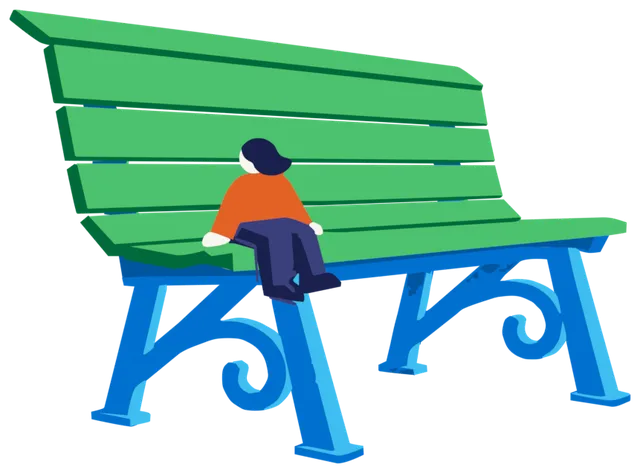
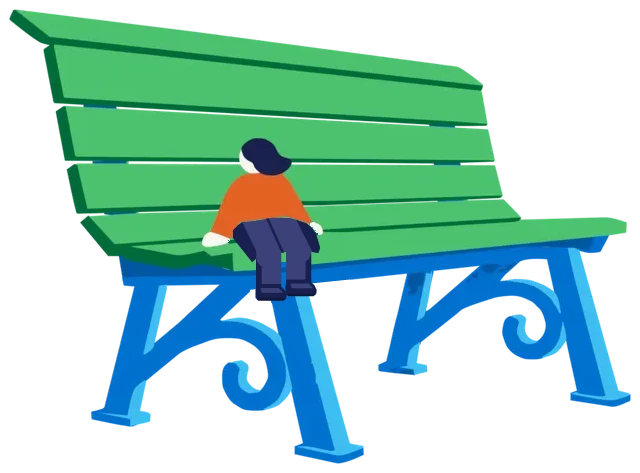
Panchina: gambe ridisegnate, due gambe pulite che dondolano senza doppioni
Claude-Session: https://claude.ai/code/session_01514XnEGZsjyPA5MKydjykv

Changed region(s): [[0.3438, 0.444, 0.5312, 0.6512]]

diff --git a/index.html b/index.html
@@ -369,7 +369,7 @@
             <p class="dintorni__azioni" data-sale><a class="bottone" href="guida-dintorni.pdf" target="_blank" rel="noreferrer">Scarica la guida dei dintorni</a></p>
           </div>
           <div class="passi__scena" aria-hidden="true">
-          <div class="passi__omino passi__omino--panchina"><picture><source srcset="img/anima-panchina-fermo.webp" media="(prefers-reduced-motion: reduce)"><img src="img/anima-panchina.webp" alt="" width="640" height="473" loading="lazy" decoding="async"></picture></div>
+          <div class="passi__omino passi__omino--panchina"><picture><source srcset="img/anima-panchina-fermo.webp?v=2026112409" media="(prefers-reduced-motion: reduce)"><img src="img/anima-panchina.webp?v=2026112409" alt="" width="640" height="473" loading="lazy" decoding="async"></picture></div>
           <div class="passi__omino passi__omino--cammina"><picture><source srcset="img/anima-cammina-fermo.webp" media="(prefers-reduced-motion: reduce)"><img src="img/anima-cammina.webp" alt="" width="385" height="640" loading="lazy" decoding="async"></picture></div>
           <div class="passi__omino passi__omino--canoa"><picture><source srcset="img/anima-canoa-fermo.webp" media="(prefers-reduced-motion: reduce)"><img src="img/anima-canoa.webp" alt="" width="640" height="272" loading="lazy" decoding="async"></picture></div>
           <div class="passi__omino passi__omino--bici"><picture><source srcset="img/anima-bici-fermo.webp" media="(prefers-reduced-motion: reduce)"><img src="img/anima-bici.webp" alt="" width="608" height="640" loading="lazy" decoding="async"></picture></div>

diff --git a/sorgenti/panchina/gambe.py b/sorgenti/panchina/gambe.py
@@ -1,0 +1,163 @@
+# Ridisegna le gambe della ragazza sulla panchina gigante: ricostruisce la panchina
+# dietro le gambe e disegna due gambe pulite che dondolano alternate.
+# uso: python3 gambe.py originale.webp uscita.webp uscita-fermo.webp
+import sys, math
+import numpy as np
+from PIL import Image, ImageDraw
+from scipy import ndimage
+
+SRC, OUT, FERMO = sys.argv[1:4]
+Z = 4                      # supercampionamento
+BX0, BY0, BX1, BY1 = 200, 212, 380, 330   # zona ricostruita
+
+im = Image.open(SRC)
+frames = []
+for i in range(im.n_frames):
+    im.seek(i); frames.append(np.array(im.convert('RGBA')))
+N = len(frames)
+
+# colori presi dall'originale
+def med(lbl_fn):
+    a = frames[0][..., :3].reshape(-1, 3).astype(int)
+    m = lbl_fn(a)
+    return tuple(int(v) for v in np.median(a[m], 0))
+near = lambda c, t=30: (lambda a: (((a - np.array(c)) ** 2).sum(1) < t * t))
+VERDE = med(near((74, 194, 108)))
+VERDE_SC = med(near((0, 106, 52)))
+BLU = med(near((0, 112, 204), 18))
+BLU_SC = med(near((0, 80, 156), 18))
+AZZ = med(near((58, 186, 238)))
+PANT = med(near((58, 64, 124), 20))
+PANT_SC = med(near((26, 34, 78), 16))
+SCARPA_SUOLA = tuple(max(0, int(v * .7)) for v in PANT_SC)
+ARANCIO = (226, 98, 36); PELLE = (240, 240, 225)
+
+# maschera: tutto ciò che è stato pantalone in qualunque fotogramma
+C = np.array([(58, 64, 124), (26, 34, 78)])
+U = np.zeros(frames[0].shape[:2], bool)
+for f in frames:
+    d = ((f[..., None, :3].astype(int) - C[None, None]) ** 2).sum(-1).min(-1)
+    U |= (d < 40 ** 2) & (f[..., 3] > 128)
+U[:212] = False; U[:, :BX0] = False; U[:, BX1:] = False; U[BY1:] = False
+U = ndimage.binary_dilation(U, iterations=2)
+
+def P(pts):  # coordinate 1x -> tela 4x locale
+    return [((x - BX0) * Z, (y - BY0) * Z) for x, y in pts]
+
+def tela():
+    return Image.new('RGBA', ((BX1 - BX0) * Z, (BY1 - BY0) * Z), (0, 0, 0, 0))
+
+def riduci(img):
+    a = np.array(img).astype(float)
+    al = a[..., 3:4] / 255
+    pm = np.concatenate([a[..., :3] * al, al], -1)
+    h, w = pm.shape[0] // Z, pm.shape[1] // Z
+    pm = pm.reshape(h, Z, w, Z, 4).mean((1, 3))
+    out = np.zeros((h, w, 4))
+    al = pm[..., 3:4]
+    out[..., :3] = np.where(al > 0, pm[..., :3] / np.maximum(al, 1e-6), 0)
+    out[..., 3] = al[..., 0] * 255
+    return np.clip(out + .5, 0, 255).astype(np.uint8)
+
+# ---------- panchina dietro le gambe ----------
+def panchina():
+    t = tela(); d = ImageDraw.Draw(t)
+    xa, xb = BX0, BX1
+    top = lambda x: 270.6 - .1 * (x - 250)
+    bot = lambda x: 289.5 - .102 * (x - 252)
+    gap = lambda x: 228 - .1 * (x - 350)
+    # seduta verde con fessura tra le doghe
+    d.polygon(P([(xa, BY0), (xb, BY0), (xb, top(xb) + .3), (xa, top(xa) + .3)]), fill=VERDE)
+    d.polygon(P([(xa, gap(xa)), (xb, gap(xb)), (xb, gap(xb) + 3.6), (xa, gap(xa) + 3.6)]), fill=VERDE_SC)
+    # gamba della panchina (faccia scura + faccia chiara)
+    xl = lambda y: 274 + .28 * (y - 312)
+    xm = lambda y: 299 + .25 * (y - 312)
+    xr = lambda y: 313.5 + .25 * (y - 312)
+    y0, y1 = 262, BY1 + 2
+    d.polygon(P([(xl(y0), y0), (xm(y0), y0), (xm(y1), y1), (xl(y1), y1)]), fill=BLU)
+    d.polygon(P([(xm(y0), y0), (xr(y0), y0), (xr(y1), y1), (xm(y1), y1)]), fill=AZZ)
+    # traverso sinistro
+    d.polygon(P([(xa, 276), (266, 276), (214.5, 320), (xa, 320)]), fill=BLU)
+    # trave blu sotto la seduta, con ombra
+    d.polygon(P([(xa, top(xa)), (xb, top(xb)), (xb, bot(xb)), (xa, bot(xa))]), fill=BLU)
+    d.polygon(P([(xa, top(xa)), (xb, top(xb)), (xb, top(xb) + 5.1), (xa, top(xa) + 5.2)]), fill=BLU_SC)
+    return riduci(t)
+
+# ---------- gambe ----------
+def ruota(c, p, a):
+    s, co = math.sin(a), math.cos(a)
+    x, y = p[0] - c[0], p[1] - c[1]
+    return (c[0] + x * co - y * s, c[1] + x * s + y * co)
+
+def tibia(d, K, ang, lato_scuro, L=31, w=12.5, av=0.0):
+    # av: 0 = gamba a piombo, 1 = piede tutto in avanti (scorcio)
+    L = L * (1 - .2 * av)
+    k = 1 + .1 * av
+    # stinco: rettangolo dal ginocchio verso il basso, ruotato di ang
+    loc = lambda x, y: ruota(K, (K[0] + x, K[1] + y), ang)
+    d.polygon(P([loc(-w, -8), loc(w, -8), loc(w, L), loc(-w, L)]), fill=PANT)
+    s = 5.5
+    if lato_scuro < 0:
+        d.polygon(P([loc(-w, -8), loc(-w + s, -8), loc(-w + s, L), loc(-w, L)]), fill=PANT_SC)
+    else:
+        d.polygon(P([loc(w - s, -8), loc(w, -8), loc(w, L), loc(w - s, L)]), fill=PANT_SC)
+    # scarpa: punta verso chi guarda, un filo a destra
+    h = 13.5 * k
+    sc = [loc(-w + .5, L - 1), loc(w - .5, L - 1), loc(w + 3, L + 2.5), loc(w + 5.5, L + h * .55),
+          loc(w + 5, L + h * .85), loc(w + 2.5, L + h), loc(-w + 2, L + h), loc(-w - .5, L + h * .8), loc(-w - .5, L + 3)]
+    d.polygon(P(sc), fill=PANT_SC)
+    d.polygon(P([loc(-w + 1.5, L + h - 2.2), loc(w + 4.6, L + h - 2.2), loc(w + 2.5, L + h), loc(-w + 2, L + h)]), fill=SCARPA_SUOLA)
+    d.polygon(P([loc(-w + 4.5, L + 1.2), loc(w - 2.5, L + 1.2), loc(w + 2, L + 2.6 + 3 * k), loc(-w + 5.5, L + 2.6 + 3 * k)]), fill=PANT)
+    # orlo sopra la scarpa
+    d.polygon(P([loc(-w, L - 3), loc(w, L - 3), loc(w, L - .5), loc(-w, L - .5)]), fill=PANT_SC)
+
+KL, KR = (268.5, 256), (298.5, 251.5)
+
+def gambe(aL, aR, vL=0, vR=0):
+    t = tela(); d = ImageDraw.Draw(t)
+    tibia(d, KL, aL, -1, av=vL)
+    tibia(d, KR, aR, +1, av=vR)
+    # cosce (coprono l'attacco delle tibie)
+    d.polygon(P([(233, 230), (238, 225), (242, 222), (256, 220.5), (268, 218.6), (282, 251.5), (255.5, 257.5), (233, 236)]), fill=PANT)
+    d.polygon(P([(233, 230), (238, 225), (242, 222), (256, 251), (256.5, 258), (252, 262), (233, 238)]), fill=PANT_SC)
+    d.polygon(P([(267, 218.4), (276, 217.5), (290, 218), (296, 219.5), (300, 221), (313.5, 251.5), (283.5, 252)]), fill=PANT)
+    d.polygon(P([(296, 219.5), (300, 221), (306, 223), (312, 228), (316, 234), (320, 248), (318, 253), (312.5, 252)]), fill=PANT_SC)
+    # piega tra le cosce
+    d.polygon(P([(266.2, 218.6), (268.6, 218.4), (284, 252.5), (281.6, 252.8)]), fill=PANT_SC)
+    # ginocchia arrotondate
+    for K, ang in ((KL, aL), (KR, aR)):
+        r = 12.3
+        d.pieslice([((K[0] - r - BX0) * Z, (K[1] - r - BY0) * Z), ((K[0] + r - BX0) * Z, (K[1] + r - BY0) * Z)],
+                   0, 180, fill=PANT)
+    return riduci(t)
+
+fondo = panchina()
+out = []
+for i, f in enumerate(frames):
+    f = f.copy()
+    reg = f[BY0:BY1, BX0:BX1]
+    rgb = reg[..., :3].astype(int)
+    tieni = ((((rgb - ARANCIO) ** 2).sum(-1) < 45 ** 2) | (((rgb - PELLE) ** 2).sum(-1) < 30 ** 2)) & (reg[..., 3] > 128)
+    m = U[BY0:BY1, BX0:BX1] & ~tieni
+    reg[m] = fondo[m]
+    ph = 2 * math.pi * i / 48
+    sL, sR = math.sin(ph), math.sin(ph + math.pi)
+    # avanti/indietro: scorcio dello stinco + leggera rotazione verso l'esterno
+    vL, vR = (1 - math.cos(ph)) / 2, (1 + math.cos(ph)) / 2
+    aL = math.radians(4) * sL - math.radians(2)
+    aR = math.radians(4) * sR + math.radians(2)
+    g = Image.fromarray(gambe(aL, aR, vL, vR))
+    base = Image.fromarray(f)
+    base.alpha_composite(g, (BX0, BY0))
+    out.append(base)
+
+out[0].save(OUT, save_all=True, append_images=out[1:], duration=42, loop=0, quality=90, method=4)
+fermo = Image.fromarray(frames[0]).copy()
+# fermo: gambe a riposo
+f = frames[0].copy(); reg = f[BY0:BY1, BX0:BX1]
+rgb = reg[..., :3].astype(int)
+tieni = ((((rgb - ARANCIO) ** 2).sum(-1) < 45 ** 2) | (((rgb - PELLE) ** 2).sum(-1) < 30 ** 2)) & (reg[..., 3] > 128)
+m = U[BY0:BY1, BX0:BX1] & ~tieni; reg[m] = fondo[m]
+b = Image.fromarray(f); b.alpha_composite(Image.fromarray(gambe(0, 0)), (BX0, BY0))
+b.save(FERMO, quality=90, method=4)
+print('ok', N, VERDE, BLU, AZZ, PANT, PANT_SC)
